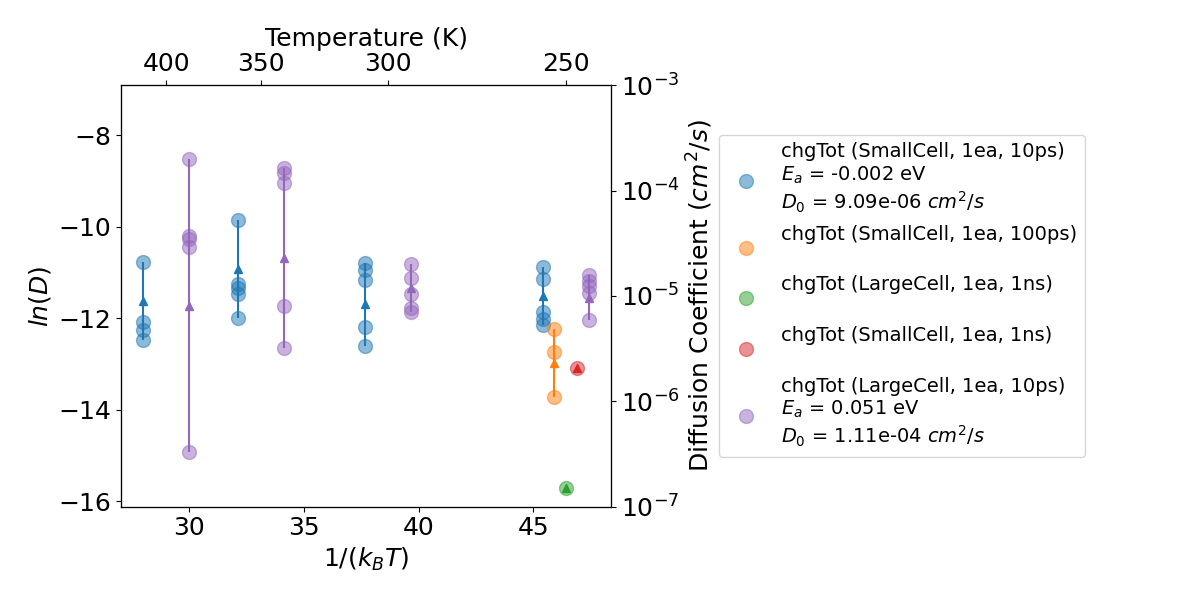
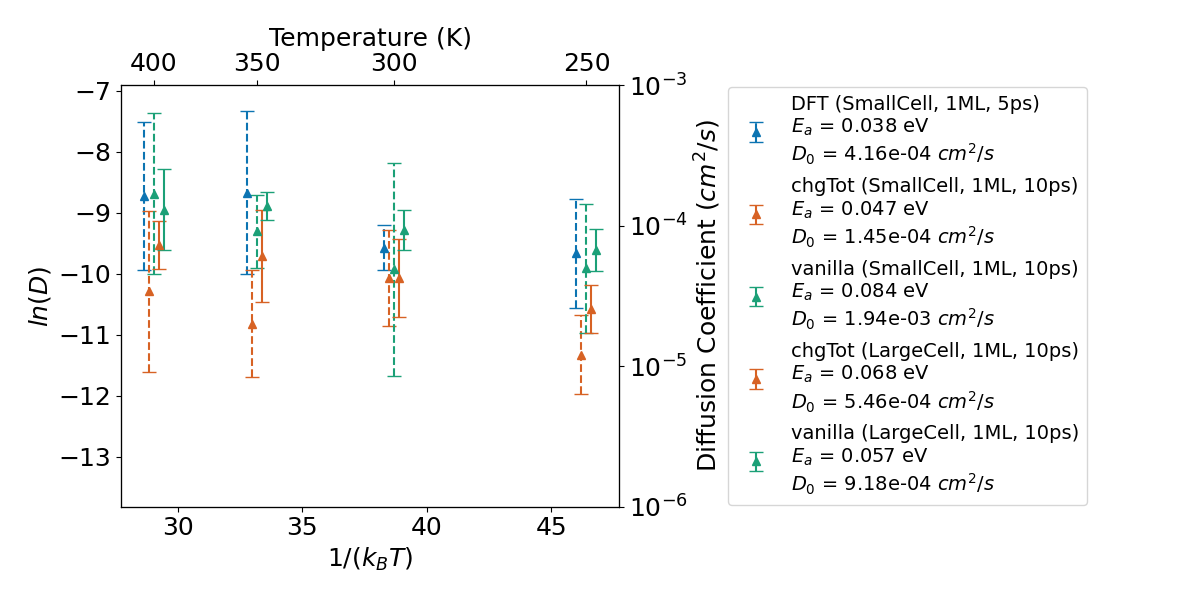
msd: exclude atoms that fly away from slab

diff --git a/diffusion/plot/FineTune/plot.py b/diffusion/plot/FineTune/plot.py
@@ -137,18 +137,39 @@ class DiffCoeffPlotter:
             y_err.append((np.max(y_list) - np.min(y_list)) / 2)
         return x_err, y_mean, y_err
 
+    def _pick_color(self, cal_type):
+        # color_list = plt.rcParams['axes.prop_cycle'].by_key()['color']
+        # color_list = ['#0c74b2',
+        #               '#D76224',
+        #               '#1BA077',
+        #               '#CA7AAA',
+                      # '#E8A125']
+        # color_cycle = cycle(color_list)
+        color_dict = {
+                'DFT': '#0c74b2',
+                'chgTot': '#D76224',
+                'vanilla': '#1BA077',
+                }
+
+        for key, value in color_dict.items():
+            if key in cal_type:
+                return value
+
+        raise ValueError(f'Unknown cal_type: {cal_type}')
+
     def plot(self, data):
         '''
         Plot data.
         '''
         plt.rcParams.update({'font.size': 18})
         fig, ax = plt.subplots(figsize=(12, 6))
-        color_list = plt.rcParams['axes.prop_cycle'].by_key()['color']
-        color_cycle = cycle(color_list)
 
-        x_shift = np.linspace(-1, 1, len(data))
+        x_shift = np.linspace(-1, 1, len(data)) * 0.4
 
-        for (cal_type, dat), color, x_s in zip(data.items(), color_cycle, x_shift):
+        # for (cal_type, dat), color, x_s in zip(data.items(), color_cycle, x_shift):
+        for (cal_type, dat), x_s in zip(data.items(), x_shift):
+            color = self._pick_color(cal_type)
+
             x, y = [], []
             for (temp, diff_coeff) in dat.items():
                 for d in diff_coeff:
@@ -181,16 +202,27 @@ class DiffCoeffPlotter:
                     }
                     ax.plot(x, y_pred, **prop_dict_line)
 
-            prop_dict_scatter = {
-                's': 100,
+            # prop_dict_scatter = {
+            #     's': 100,
+            #     'color': color,
+            #     'label': label,
+            #     'alpha': 0.5,
+            # }
+            # ax.scatter(x + x_s, y, **prop_dict_scatter)
+
+            prop_dict_errorbar = {
                 'color': color,
                 'label': label,
-                'alpha': 0.5,
+                'fmt': '^',
+                'capsize': 5,
             }
-            ax.scatter(x + x_s, y, **prop_dict_scatter)
-
             x_err, y_mean, y_err = self.get_errorbar(x, y, x_s)
-            ax.errorbar(x_err, y_mean, yerr=y_err, color=color, fmt='^')
+
+            eb = ax.errorbar(x_err, y_mean, yerr=y_err, **prop_dict_errorbar)
+            if 'Large' in cal_type:
+                eb[-1][0].set_linestyle('-')
+            else:
+                eb[-1][0].set_linestyle('--')
 
         self.set_xy_axis_info(ax)
         self.add_xticks_temperature_in_units_of_K(ax)

diff --git a/diffusion/msd/time_average/msd.py b/diffusion/msd/time_average/msd.py
@@ -20,7 +20,7 @@ def load_data(**inputs):
     atom_type = inputs['atom_type']
 
     if method == 'AIMD':
-        atoms_format = 'vasp-out'
+        atoms_format = 'vasp-xdatcar'
     elif method == 'MD':
         atoms_format = 'lammps-dump-text'
     else:
@@ -32,10 +32,24 @@ def load_data(**inputs):
         atoms_list.extend(atoms)
     atoms_list = atoms_list[::step]
 
-    idx_F = np.array([
-        atom.index for atom in atoms_list[0] if atom.symbol == atom_type])
+    if inputs['filter_by_height']:
+        cutoff = atoms_list[0].get_cell()[2, 2] + inputs['height_cutoff']
+        max_height = np.zeros(len(atoms_list[0]))
+        for atoms in atoms_list:
+            max_height = np.maximum(max_height, atoms.get_positions()[:, 2])
 
-    mask_F_SiF, mask_F_HF, mask_F_other = separate_F_index(**inputs)
+        idx_to_remove = set()
+        for idx, h_max in enumerate(max_height):
+            if h_max > cutoff:
+                idx_to_remove.add(idx)
+    else:
+        idx_to_remove = set()
+
+    idx_F = np.array([
+        atom.index for atom in atoms_list[0]
+        if atom.symbol == atom_type and atom.index not in idx_to_remove])
+
+    mask_F_SiF, mask_F_HF, mask_F_other = separate_F_index(idx_to_remove, **inputs)
     positions = [
         atoms[idx_F].get_positions()[:, 0:2]
         for atoms in atoms_list]
@@ -104,7 +118,7 @@ def msd(**inputs):
             f.write(line)
 
 
-def separate_F_index(**inputs):
+def separate_F_index(idx_to_remove, **inputs):
     paths = inputs['paths']
     d_SiF = inputs['d_SiF']
     d_HF = inputs['d_HF']
@@ -121,9 +135,9 @@ def separate_F_index(**inputs):
     idx_F_HF = [i for i in idx_F if np.min(D_len[i, idx_H]) < d_HF]
     idx_F_other = [i for i in idx_F if i not in idx_F_SiF + idx_F_HF]
 
-    mask_F_SiF = np.array([i in idx_F_SiF for i in idx_F])
-    mask_F_HF = np.array([i in idx_F_HF for i in idx_F])
-    mask_F_other = np.array([i in idx_F_other for i in idx_F])
+    mask_F_SiF = np.array([i in idx_F_SiF for i in idx_F if i not in idx_to_remove])
+    mask_F_HF = np.array([i in idx_F_HF for i in idx_F if i not in idx_to_remove])
+    mask_F_other = np.array([i in idx_F_other for i in idx_F if i not in idx_to_remove])
 
     return mask_F_SiF, mask_F_HF, mask_F_other
 
@@ -140,10 +154,12 @@ def main():
     inputs = {
         'method': method,
         'paths': paths,
-        'step': 10,
+        'step': 1,
         'atom_type': 'F',
         'd_SiF': 2.0,
         'd_HF': 1.1,
+        'filter_by_height': True,
+        'height_cutoff': -5.0
     }
 
     start_time = time.time()

diff --git a/diffusion/msd/time_average/plot.py b/diffusion/msd/time_average/plot.py
@@ -38,12 +38,14 @@ def plot(dat_type, x, y, ax, **fit_info):
 
 
 def main():
-    if len(sys.argv) != 2:
-        print("Usage: python plot.py <datafile>")
+    if len(sys.argv) != 3:
+        print("Usage: python plot.py <datafile> <method>")
         sys.exit(1)
+    path_to_data = sys.argv[1]
+    method = sys.argv[2]
 
     md_info = {
-        'step_per_image': 100,
+        'step_per_image': 100 if method == 'MD' else 1,
         'time_step': 0.001,  # ps unit
     }
 
@@ -55,7 +57,7 @@ def main():
         'color': None,
     }
 
-    dat = np.loadtxt(sys.argv[1])
+    dat = np.loadtxt(path_to_data)
     md_step, msd_avg, _ = dat[:, 0], dat[:, 1], dat[:, 2]
     msd_avg_SiF, _ = dat[:, 3], dat[:, 4]
     msd_avg_HF, _ = dat[:, 5], dat[:, 6]
